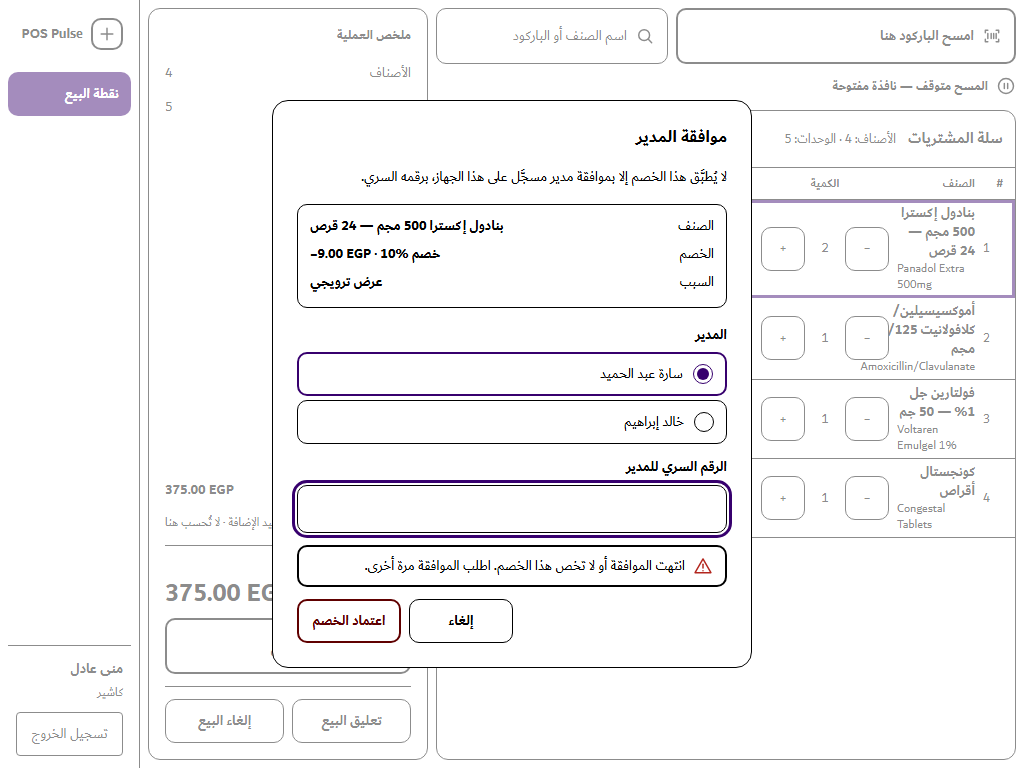
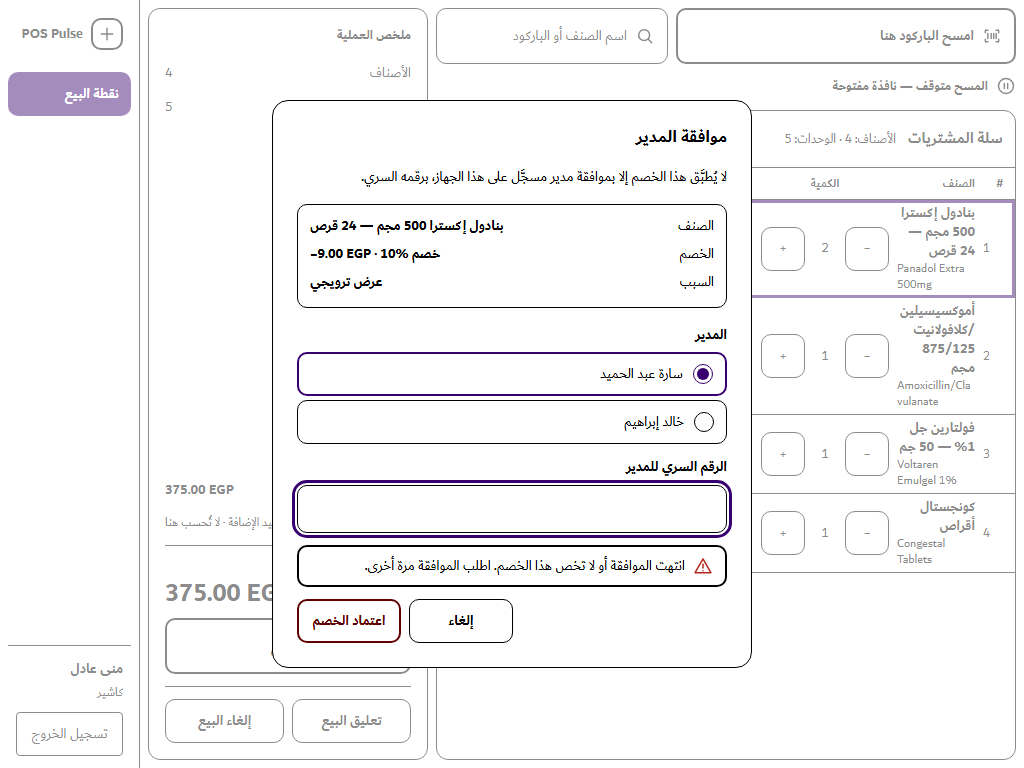
fix: RT-853 review — integer amount parse, CartUi arg, cart fit checks
- gen_d1.py: parse a typed amount into minor units with integer arithmetic
  (parse_minor), never float; sale_screen takes a CartUi instead of five args.
- capture-refs.cjs: the row / list / name selectors are now a `parts` option
  (defaults unchanged: .row, .rows, .name), so D1's Direction B cart (.line,
  .disc, .lines, .nm) gets the spill, scroll and clipped-name checks.
- d1.css: the check caught a clipped product name at 1024; names now wrap
  (overflow-wrap: anywhere) and the cart list scrolls instead of hiding rows.
All 34 D1 frames pass; G6C and PK3 re-checked with no failure.

diff --git a/docs/design/vnext/visual-acceptance/D1-Discount/d1.css b/docs/design/vnext/visual-acceptance/D1-Discount/d1.css
@@ -154,7 +154,7 @@
   min-block-size: 0;
   margin: 0;
   padding: 0;
-  overflow: hidden;
+  overflow-y: auto;
   list-style: none;
 }
 .lines > li {
@@ -171,6 +171,7 @@
 .line .nm {
   display: grid;
   min-inline-size: 0;
+  overflow-wrap: anywhere;
   font-weight: 600;
   line-height: 1.35;
 }

diff --git a/docs/design/vnext/visual-acceptance/D1-Discount/tools/gen_d1.py b/docs/design/vnext/visual-acceptance/D1-Discount/tools/gen_d1.py
@@ -137,6 +137,13 @@ def fmt(minor: int) -> str:
     return f"{sign}{m // 100:,}.{m % 100:02d}"
 
 
+def parse_minor(raw: str) -> int:
+    """A typed amount such as "5.00" to minor units, integer arithmetic only (no float for money)."""
+    whole, _, frac = raw.partition(".")
+    assert len(frac) <= 2 and (whole + frac).isdigit()
+    return int(whole or "0") * 100 + int(frac.ljust(2, "0"))
+
+
 def money(minor: int, cls: str = "money") -> str:
     return f'<span class="{cls}">{fmt(minor)} EGP</span>'
 
@@ -318,11 +325,20 @@ def money_column(cart: Cart, notice: str | None) -> str:
     )
 
 
-def sale_screen(cart: Cart, *, inert: bool, discount_enabled: bool = True, qty_disabled: bool = False,
-                notice: str | None = None) -> str:
+@dataclass(frozen=True)
+class CartUi:
+    """What the sale screen shows around the cart: the «خصم» action, the steppers, a refusal."""
+
+    discount_enabled: bool = True
+    qty_disabled: bool = False
+    notice: str | None = None
+
+
+def sale_screen(cart: Cart, inert: bool, ui: CartUi) -> str:
     return (
         f'<main class="screen sale"{" inert" if inert else ""}><h1 class="vh">نقطة البيع</h1>'
-        f"{command(inert)}{cart_section(cart, discount_enabled, qty_disabled)}{money_column(cart, notice)}</main>"
+        f"{command(inert)}{cart_section(cart, ui.discount_enabled, ui.qty_disabled)}"
+        f"{money_column(cart, ui.notice)}</main>"
     )
 
 
@@ -344,7 +360,7 @@ def sheet_dialog(s: Sheet) -> str:
     elif s.kind == "pct":
         amount = Discount("pct", int(s.raw_value), "promotion", "").amount(gross)
     else:
-        amount = Discount("amt", int(round(float(s.raw_value) * 100)), "promotion", "").amount(gross)
+        amount = Discount("amt", parse_minor(s.raw_value), "promotion", "").amount(gross)
 
     def kind_choice(key: str, label: str) -> str:
         on = s.kind == key
@@ -571,9 +587,9 @@ def manager_cart() -> Cart:
     return Cart(list(LINES), {0: D_PCT, 2: D_AMT}, 2)
 
 
-def frame_sale(role: str, cart: Cart, dialog: str = "", **kw: object) -> str:
+def frame_sale(role: str, cart: Cart, dialog: str = "", **ui: object) -> str:
     inert = bool(dialog)
-    return sale_screen(cart, inert=inert, **kw) + nav(role, "نقطة البيع", inert) + dialog
+    return sale_screen(cart, inert, CartUi(**ui)) + nav(role, "نقطة البيع", inert) + dialog
 
 
 SHEET_PCT = Sheet(PANADOL, "pct", "10", "promotion", "cashier")
